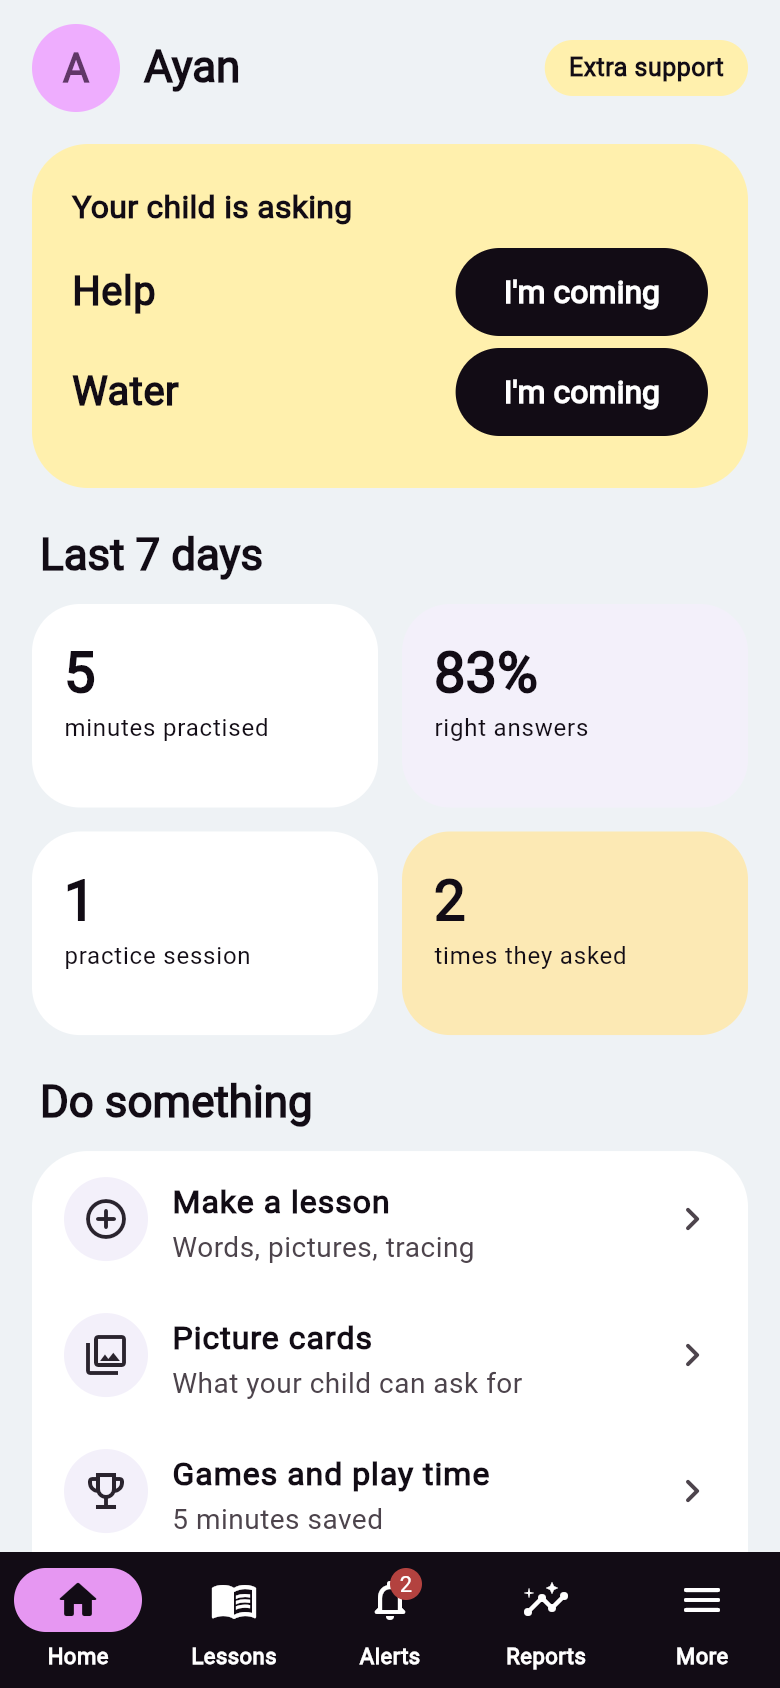
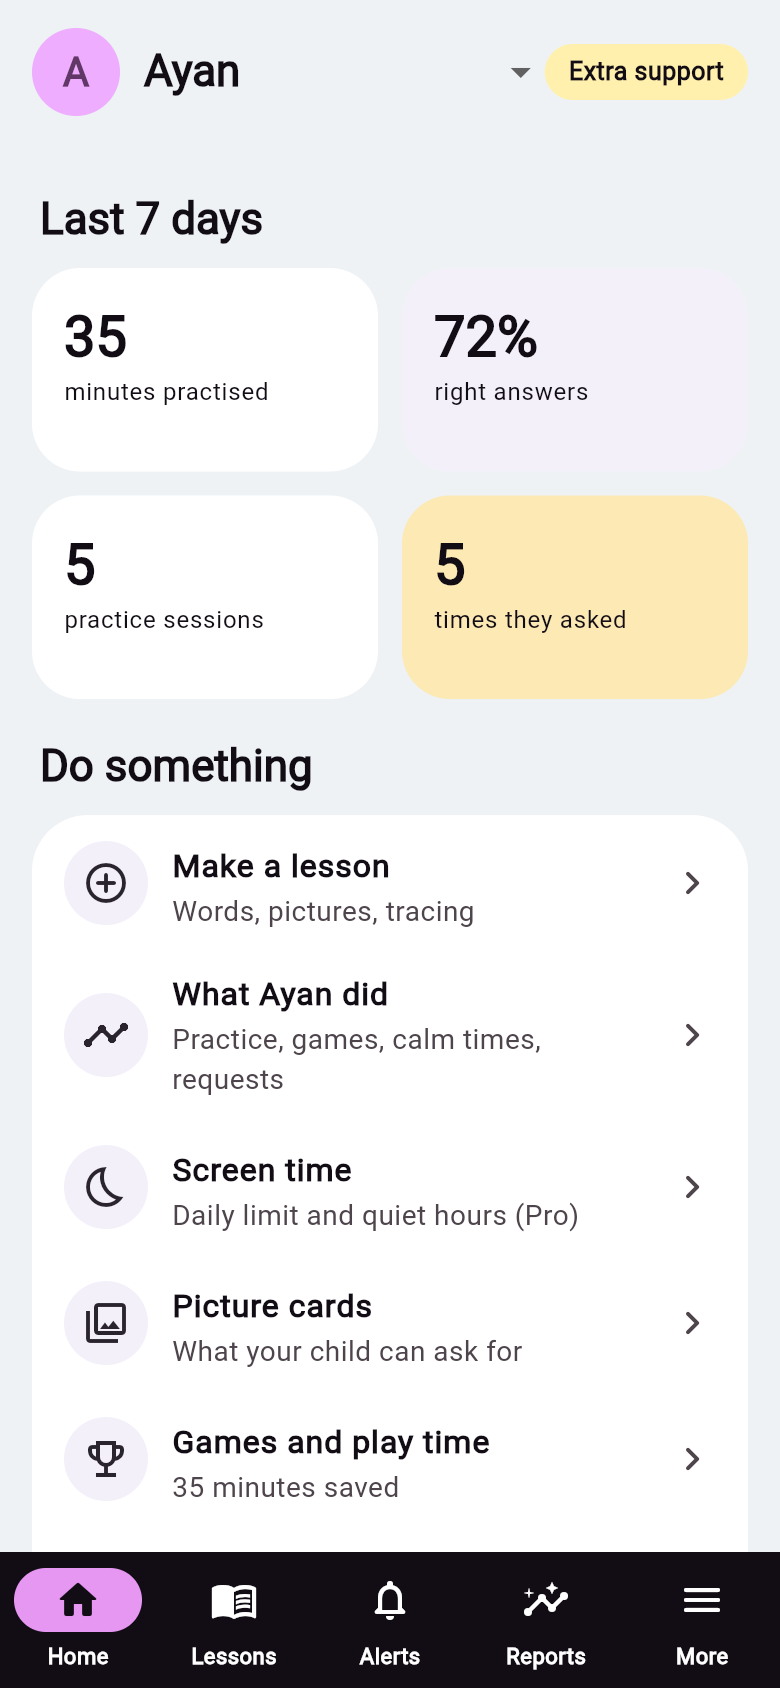
Demo data safe at any hour, live demo uses the seeded accounts, new screenshots
Claude-Session: https://claude.ai/code/session_01NWuvV9aK56ovTC6vCNT6kG

diff --git a/app/Support/DemoContent.php b/app/Support/DemoContent.php
@@ -33,7 +33,7 @@ class DemoContent
     {
         foreach ($kids as $i => $k) {
             $child = Child::create(['user_id' => $user->id, 'name' => $k['name'], 'date_of_birth' => $k['born'], 'neurotype' => $k['neurotype'], 'track' => $k['track'], 'sensory_mode' => $k['track'] === 'special',
-                'screen_time' => $i === 0 ? ['enabled' => true, 'daily_minutes' => 60, 'quiet_start' => '20:00', 'quiet_end' => '07:00'] : null]);
+                'screen_time' => $i === 0 ? ['enabled' => true, 'daily_minutes' => 120, 'quiet_start' => null, 'quiet_end' => null] : null]);   // no quiet hours here: a demo opened at night must not start in sleepy time
             $this->lessons($user, $child);
             $this->cards($child);
             $this->history($child, $i);
